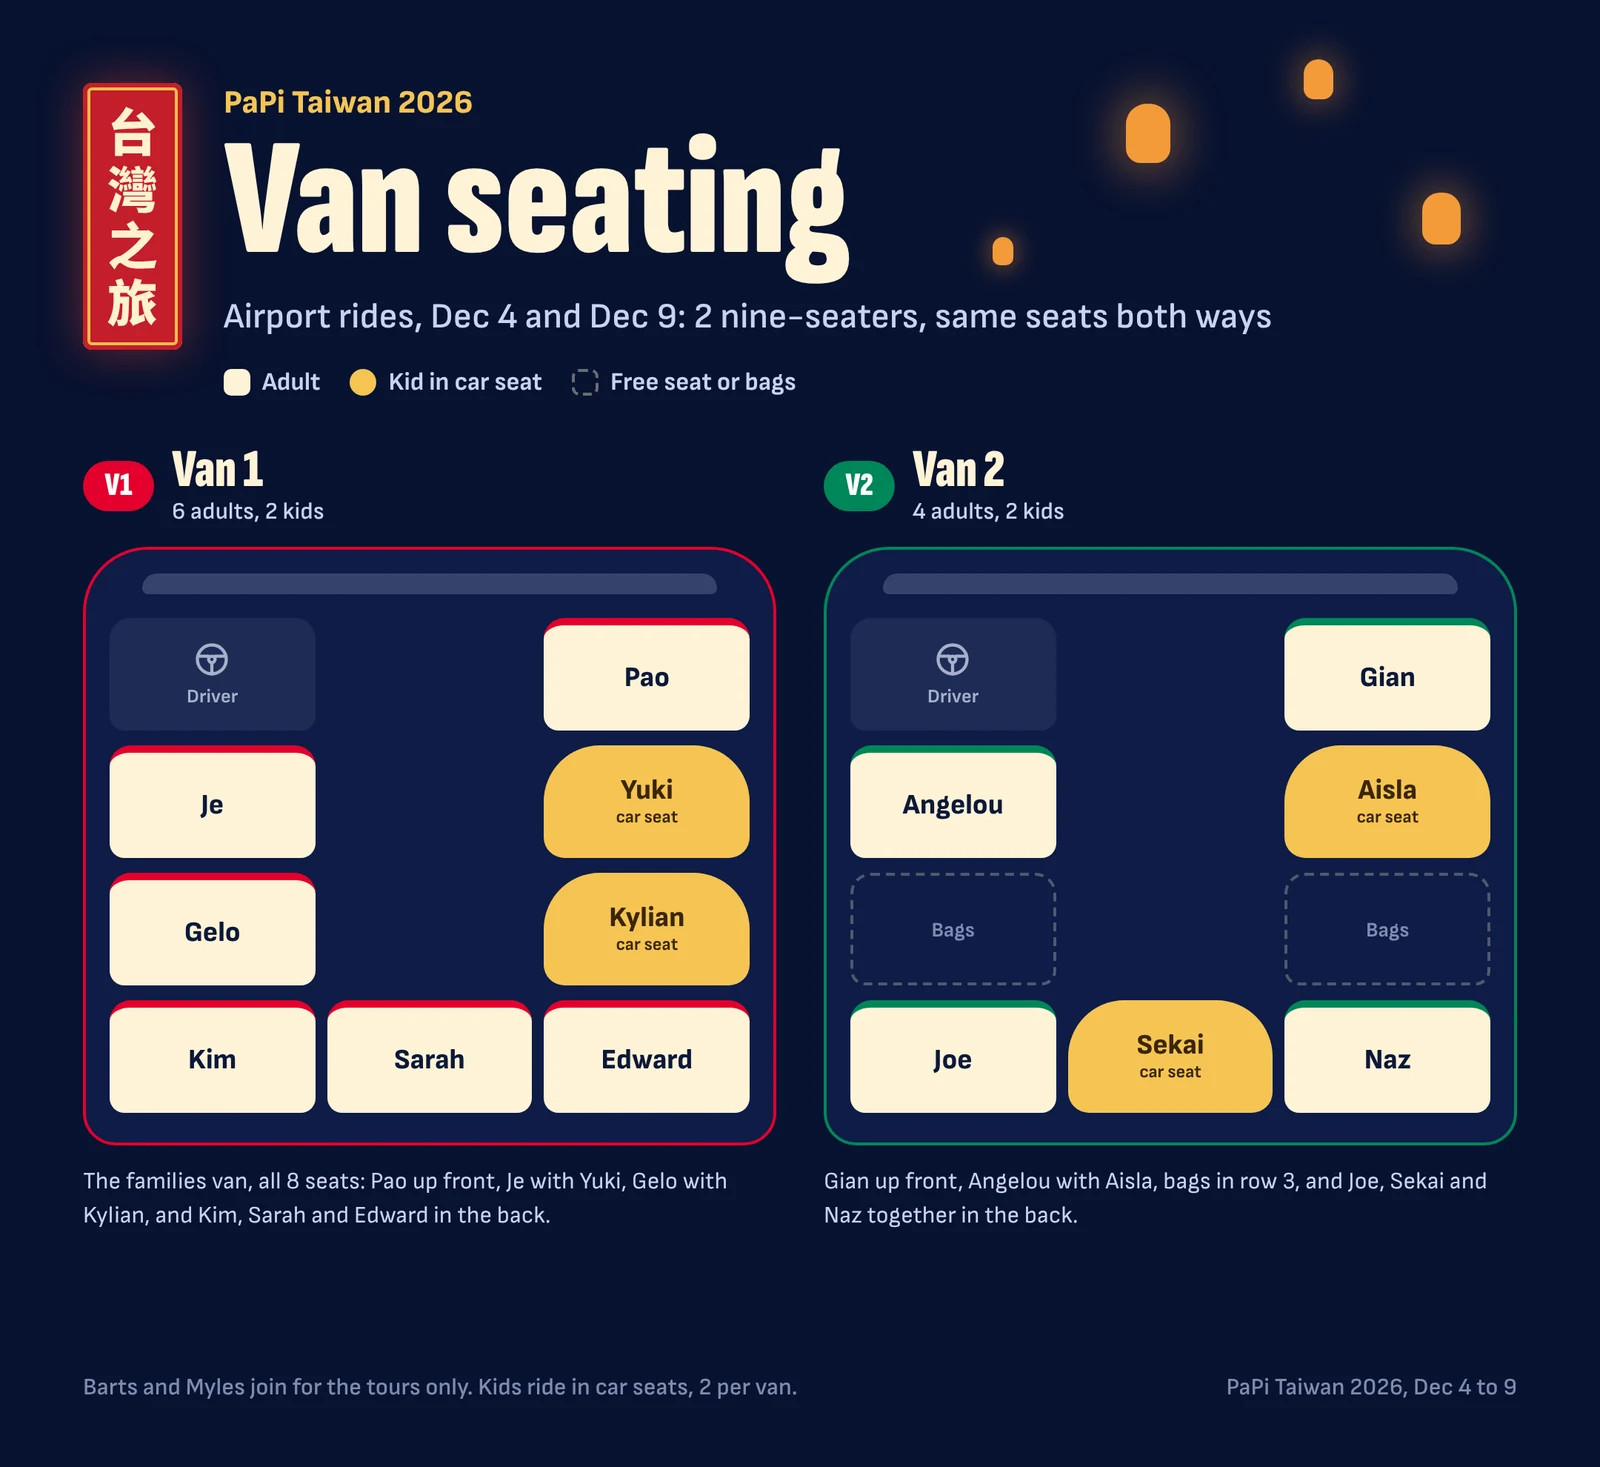
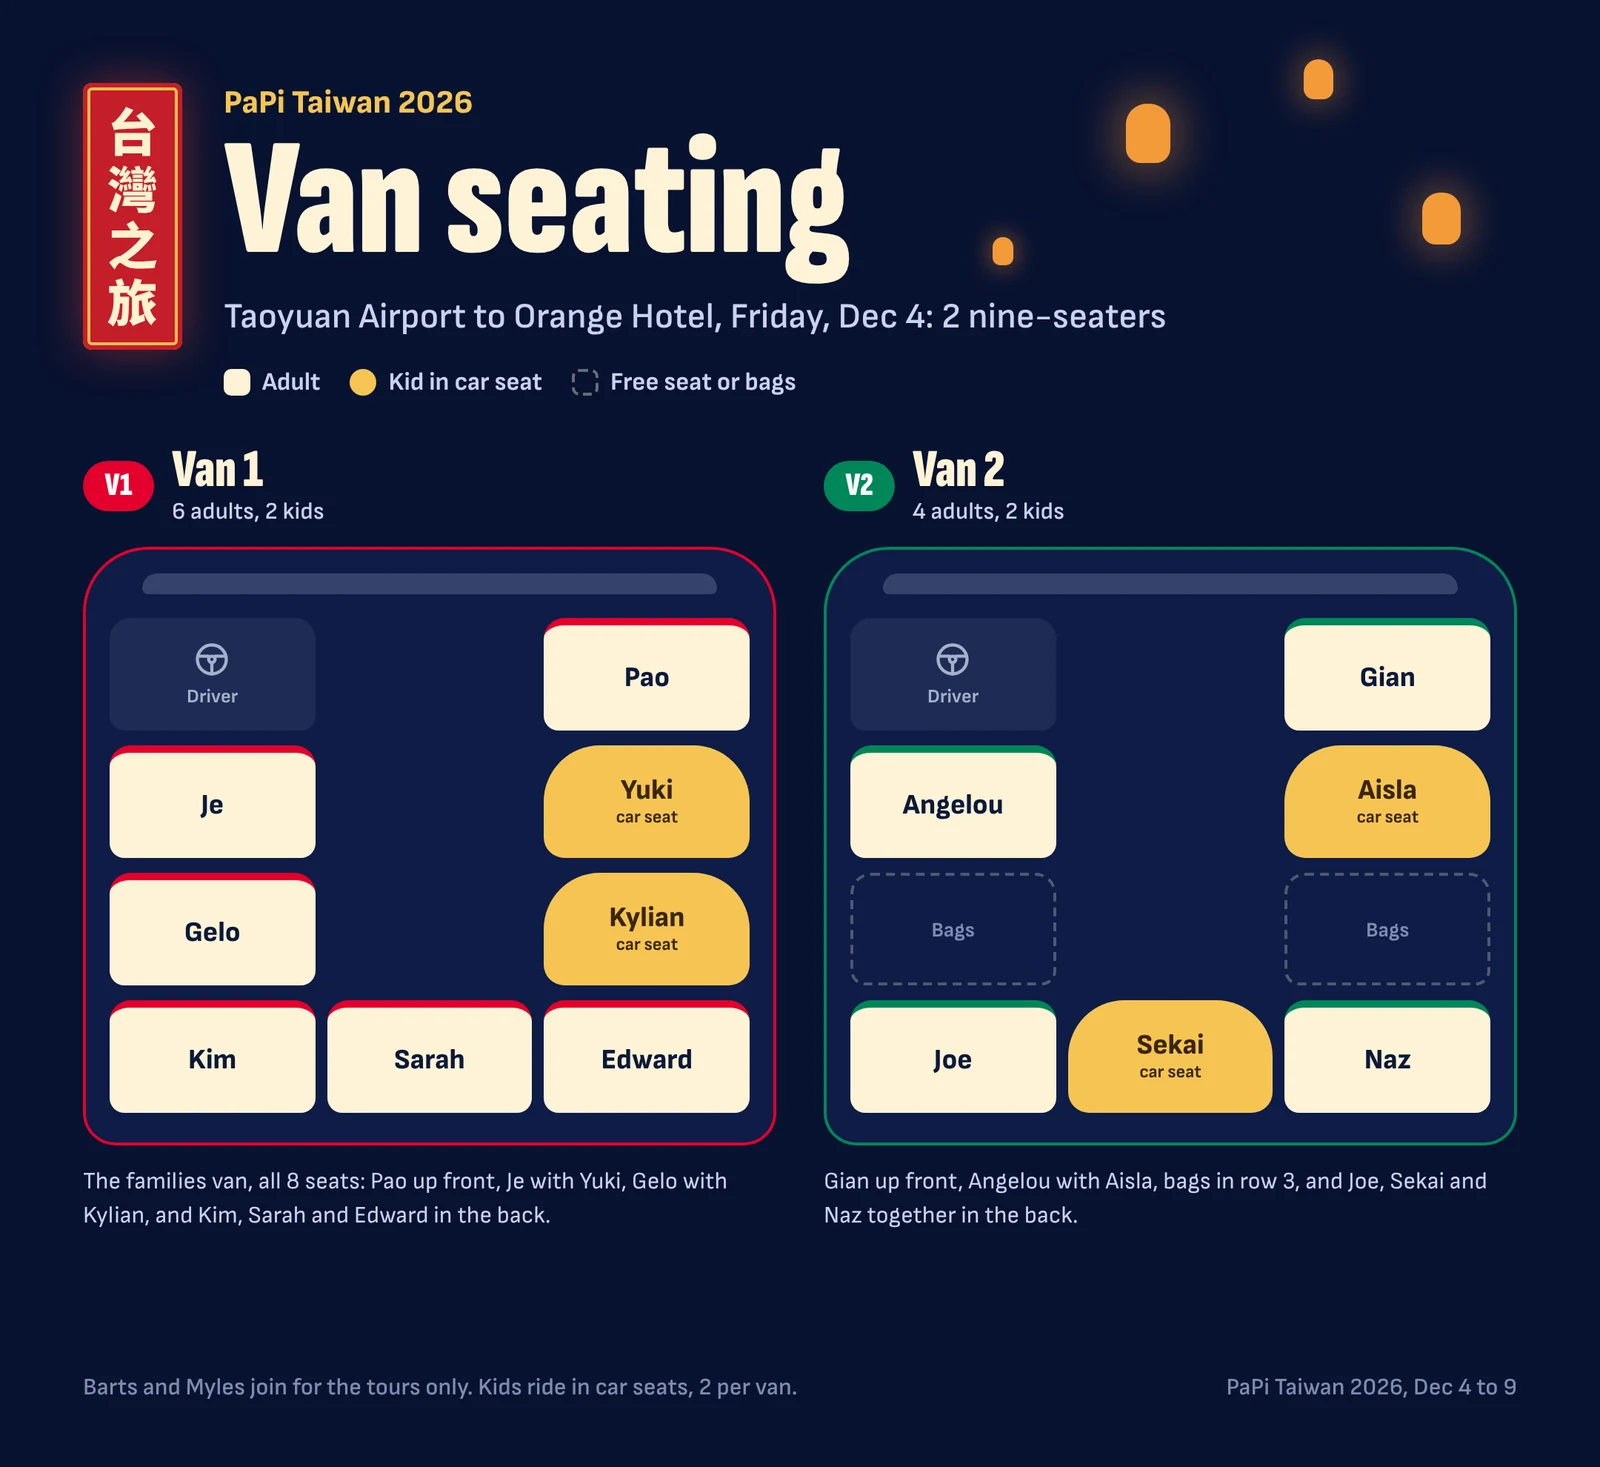
Ride home: Sarah and Edward aren't on it, so 8 adults split the vans
- Departure: 2 vans at NT$2,000 each, split by 8 adults (NT$500 each);
  Barts, Myles, Sarah and Edward pay less
- New ride-home seating chart on Day 6; the airport chart is Dec 4 only

Claude-Session: https://claude.ai/code/session_01KB1jmhfCUsJpm49JGQvRH2

Changed region(s): [[0.125, 0.184, 0.7812, 0.2454]]

diff --git a/assets/data.js b/assets/data.js
@@ -13,11 +13,11 @@ window.TRIP = {
   // Fallback exchange rate if the live rate can't load (mid-market, Nov 4, 2026)
   rate: { value: 1.936, asOf: "Nov 4, 2026" },
 
-  // Van seating chart for both airport rides (Dec 4 and Dec 9), shown on Day 1 and Day 6
+  // Van seating chart for the ride from the airport (Dec 4), shown on Day 1
   seating: {
     src: "assets/van-seating.webp", w: 1600, h: 1467,
-    caption: "Who rides where to and from the airport. Tap to see it bigger.",
-    alt: "Van seating chart for both airport rides, Dec 4 and Dec 9, in 2 nine-seaters: 1 seat up front, then rows of 2, 2 and 3. Van 1: Pao in front; Je and Yuki; Gelo and Kylian; Kim, Sarah and Edward in the back. Van 2: Gian in front; Angelou and Aisla; bags in row 3; Joe, Sekai and Naz in the back. Barts and Myles join for the tours only."
+    caption: "Who rides where from the airport. Tap to see it bigger.",
+    alt: "Van seating chart from the airport, Dec 4, in 2 nine-seaters: 1 seat up front, then rows of 2, 2 and 3. Van 1: Pao in front; Je and Yuki; Gelo and Kylian; Kim, Sarah and Edward in the back. Van 2: Gian in front; Angelou and Aisla; bags in row 3; Joe, Sekai and Naz in the back. Barts and Myles join for the tours only."
   },
 
   // Van seating chart for the tour days (Dec 5 to 7): 2 nine-seaters (1 up front, then 2, 2 and 3), no luggage
@@ -25,6 +25,13 @@ window.TRIP = {
     src: "assets/van-seating-tours.webp", w: 1600, h: 1467, title: "Tour seating",
     caption: "Who rides where on tour days. Tap to see it bigger.",
     alt: "Tour seating chart, 2 nine-seaters: 1 seat up front, then rows of 2, 2 and 3. Van 1: Pao in front; Je and Yuki; Gelo and Kylian; Kim, Sarah and Edward in the back. Van 2: Gian in front; Barts and Myles together in row 2; Angelou and Aisla in row 3; Joe, Sekai and Naz in the back. Every kid has a car seat."
+  },
+
+  // Van seating chart for the ride home (Dec 9), shown on Day 6
+  seatingHome: {
+    src: "assets/van-seating-home.webp", w: 1600, h: 1467, title: "Ride home seating",
+    caption: "Who rides where to the airport on Dec 9. Tap to see it bigger.",
+    alt: "Ride home seating chart, Dec 9, in 2 nine-seaters: 1 seat up front, then rows of 2, 2 and 3. Van 1: Pao in front; Je and Yuki; Gelo and Kylian; Kim and bags in the back. Van 2: Gian in front; Angelou and Aisla; bags in row 3; Joe, Sekai and Naz in the back. Barts, Myles, Sarah and Edward aren't on this ride."
   },
 
   // Live countdown on the cover. Update "to" and "note" once the flight is booked (Taipei time, +08:00).
@@ -209,7 +216,7 @@ window.TRIP = {
         [6, "9:30 AM", "Chiang Kai-shek Memorial Hall: big plaza and the guard change on the hour", "cks", "Van, about 15 min", "A great place for the kids to run around."],
         [6, "10:45 AM", "Last pasalubong: pineapple cakes", "sunnyhills", "Van", "SunnyHills or Chia Te."],
         [6, "12:00 PM", "Lunch", "", "", ""],
-        [6, "TBD", "Van to Taoyuan Airport", "airport", "2 vans, about 50 min", "2 vans booked, NT$2,000 each, same seats as the ride from the airport. Be at the airport 3 hours before the flight.", "", "seating"]
+        [6, "TBD", "Van to Taoyuan Airport", "airport", "2 vans, about 50 min", "2 vans booked, NT$2,000 each. Find your seat on the ride-home chart. Be at the airport 3 hours before the flight.", "", "seatingHome"]
       ],
       // day, place, name, type, what to order, NT$ per person, counted in budget, tip, must-eat
       food: [
@@ -268,7 +275,7 @@ window.TRIP = {
         [5, "Kids' rides (free)", "Entrance", "child", 0, "Kids ride free."],
         [5, "A grown-up riding along with each toddler", "Entrance", "child", 0, "Free for now. Type a price if the grown-ups riding along have to pay."],
         [5, "Meals", "Food", "eater", "FOOD", ""],
-        [6, "Van: departure airport (booked)", "Van", "van", 2000, "Booked: 2 vans at NT$2,000 each. Barts and Myles aren't on this ride, so the other 10 adults split it.", "", "booked", 2, "Transfer", ["Barts", "Myles"]],
+        [6, "Van: departure airport (booked)", "Van", "van", 2000, "Booked: 2 vans at NT$2,000 each. Barts, Myles, Sarah and Edward aren't on this ride, so the other 8 adults split it.", "", "booked", 2, "Transfer", ["Barts", "Myles", "Sarah", "Edward"]],
         [6, "Meals", "Food", "eater", "FOOD", ""],
         [6, "Diapers, milk and kid snacks (whole trip)", "Kids", "child", 1800, "About NT$300 per child per day. Bring from home to save."],
         [6, "Shopping and pasalubong", "Shopping", "adult", "SHOP", "Set on the Budget tab."],
@@ -340,7 +347,7 @@ window.TRIP = {
         [6, "8:00 AM", "Breakfast and pack", "hotel", "", ""],
         [6, "9:30 AM", "Last pasalubong: pineapple cakes", "sunnyhills", "MRT or taxi", "SunnyHills, or Chia Te near Nanjing Fuxing MRT."],
         [6, "12:00 PM", "Hotel check-out", "hotel", "", "Confirm the check-out time with Orange Hotel."],
-        [6, "TBD", "Van to Taoyuan Airport", "airport", "2 vans, about 50 min", "2 vans booked, NT$2,000 each, same seats as the ride from the airport. Be at the airport 3 hours before the flight.", "", "seating"]
+        [6, "TBD", "Van to Taoyuan Airport", "airport", "2 vans, about 50 min", "2 vans booked, NT$2,000 each. Find your seat on the ride-home chart. Be at the airport 3 hours before the flight.", "", "seatingHome"]
       ],
       food: [
         [1, "dtf", "Din Tai Fung (Taipei 101 B1)", "Restaurant", "Order for the table and share: baskets of xiaolongbao, fried rice, wontons and side dishes", 450, true, "The queue can be over an hour, so get a number first.", true, "dtf"],
@@ -398,7 +405,7 @@ window.TRIP = {
         [4, "Meals and street food", "Food", "eater", "FOOD", ""],
         [5, "MRT and taxis for the free day", "Transport", "adult", 200, "No van on the free day."],
         [5, "Meals and street food", "Food", "eater", "FOOD", ""],
-        [6, "Van: departure airport (booked)", "Van", "van", 2000, "Booked: 2 vans at NT$2,000 each. Barts and Myles aren't on this ride, so the other 10 adults split it.", "", "booked", 2, "Transfer", ["Barts", "Myles"]],
+        [6, "Van: departure airport (booked)", "Van", "van", 2000, "Booked: 2 vans at NT$2,000 each. Barts, Myles, Sarah and Edward aren't on this ride, so the other 8 adults split it.", "", "booked", 2, "Transfer", ["Barts", "Myles", "Sarah", "Edward"]],
         [6, "Meals", "Food", "eater", "FOOD", ""],
         [6, "Shopping and pasalubong", "Shopping", "adult", "SHOP", "Set on the Budget tab."],
         [6, "Hotel (if not prepaid)", "Hotel", "group", "HOTEL", "Set on the Budget tab."],

diff --git a/assets/app.js b/assets/app.js
@@ -146,8 +146,8 @@
     const p = P[key];
     return 'https://www.google.com/maps/search/?api=1&query=' + encodeURIComponent(p.map || p.en + ', Taiwan');
   };
-  // Van seating charts a stop can show: "seating" (airport transfers) and "seatingTour" (tour days)
-  const seatChart = (k) => ((k === 'seating' || k === 'seatingTour') && T[k] ? T[k] : null);
+  // Van seating charts a stop can show: "seating" (from the airport), "seatingTour" (tour days), "seatingHome" (ride home)
+  const seatChart = (k) => (['seating', 'seatingTour', 'seatingHome'].includes(k) && T[k] ? T[k] : null);
   const zhShort = (key) => ((P[key] && P[key].zh) || '').split(/[\s/]/)[0].slice(0, 2);
 
   // ---------- Budget math ----------

diff --git a/sw.js b/sw.js
@@ -1,7 +1,7 @@
 /* PaPi Taiwan 2026 — offline support.
    The site keeps working with weak signal: pages come from the network first, then from this cache.
    Bump VERSION whenever site files change. */
-const VERSION = 'papi-2026-v20';
+const VERSION = 'papi-2026-v21';
 const PHOTOS = 'papi-photos-v1';
 const CORE = [
   './',
@@ -13,6 +13,7 @@ const CORE = [
   'assets/icons/icon-192.png',
   'assets/van-seating.webp',
   'assets/van-seating-tours.webp',
+  'assets/van-seating-home.webp',
   'assets/fonts/sofia-sans-latin-wght-normal.woff2',
   'assets/fonts/sofia-sans-extra-condensed-latin-wght-normal.woff2',
   'assets/fonts/noto-sans-tc-400.woff2',
